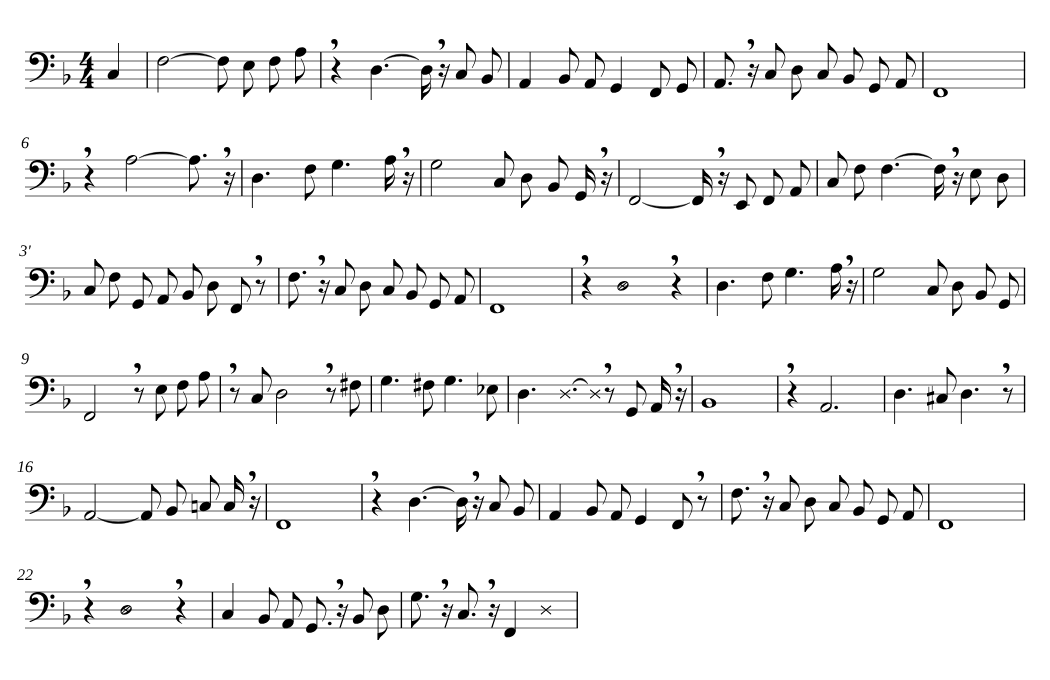
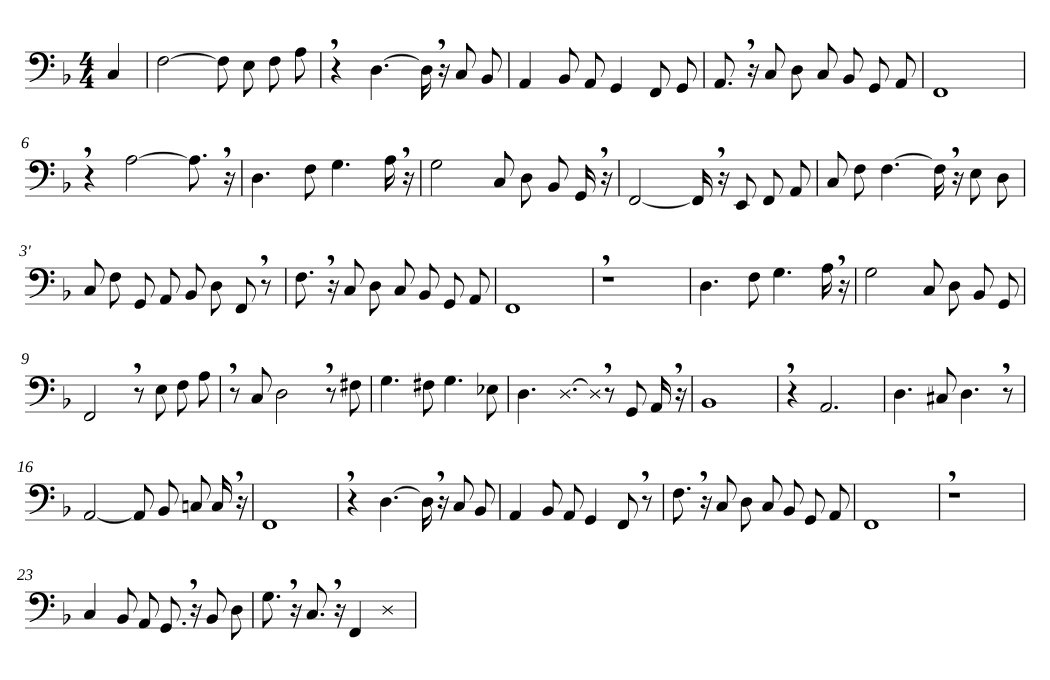
Take out the long air passages; let the short ones fade like a breath
The steady 3-4 s hiss through the teeth (bar 6' and the fermata in 22)
sounded comical: the voice now rests there. The two short passages (the
quiet turn in 12, and the close through the lips) are a breath out
instead of a held hiss: in over 120 ms, starting about 20 dB under the
hum (10 dB quieter than before), fading by a further 12 dB.

Claude-Session: https://claude.ai/code/session_01XdJ38LqZWspRhC4Uc3ZUqR

diff --git a/traeumerei-humming/live/hummer.js b/traeumerei-humming/live/hummer.js
@@ -8,7 +8,7 @@
   const PAD = 600, TRANSPOSE = -12, LAT = 15;                     // ms, semitones, ms
   const LEGATO_WITHIN = 15, STOP_FROM = 110, SLUR_FROM = 30;       // articulation thresholds, ms
   const OPEN_MAX = 0.3;
-  const AIR = { teeth: 8000, lips: 12000 };                       // dPa at depth 1 for the voiceless air: ~10 dB under the hum
+  const AIR = { teeth: 4000, lips: 8000, fade: 0.25 };            // dPa at depth 1 for the voiceless air (~20 dB under the hum), and where it fades to
   const TC = { posture: 30, glottis: 30, pitch: 30, pressure: 12 };
   const EFFORT = { vRef: 45, pRef: 7000, expo: 1.5, breathyAt: 33, modalAt: 48, stepMs: 30 };
   const HUMS = ['hum1', 'hum2', 'hum3'], ORDER = ['open2', 'open4', 'open1'];
@@ -277,7 +277,14 @@
       const s = T(d), e = T(d + a.durationTicks), W = tiers.weight;
       tiers.glottal = splice(tiers.glottal, s, e, 'voiceless-fricative');
       tiers.velic = splice(tiers.velic, s - 30, e, 0.0);
-      tiers.pressure = splice(tiers.pressure, s + 30, e - 40, Math.round(AIR[a.through] * Number(a.depth)));
+      // a breath out, not a held hiss: in over 120 ms, then fading to AIR.fade of it by the end
+      const p0 = AIR[a.through] * Number(a.depth), a0 = s + 30, a1 = Math.min(a0 + 120, e - 40), STEPS = 10;
+      tiers.pressure = splice(tiers.pressure, a0, a0 + (a1 - a0) / 2, Math.round(0.5 * p0));
+      tiers.pressure = splice(tiers.pressure, a0 + (a1 - a0) / 2, a1, Math.round(p0));
+      for (let k = 0; k < STEPS; k++) {
+        const x0 = a1 + (e - 40 - a1) * k / STEPS, x1 = a1 + (e - 40 - a1) * (k + 1) / STEPS;
+        if (x1 > x0) tiers.pressure = splice(tiers.pressure, x0, x1, Math.round(p0 * Math.pow(AIR.fade, (k + 1) / STEPS)));
+      }
       if (a.through === 'lips') tiers.lip.push([s, e, 'll-dental-fricative', 0]);
       else tiers.tt.push([s, e, 'tt-alveolar-fricative', 0]);
       for (let i = Math.max(0, Math.floor(s - 80)); i < Math.min(W.length, Math.ceil(e + 80)); i++)

diff --git a/traeumerei-humming/reduction/build_reduction.py b/traeumerei-humming/reduction/build_reduction.py
@@ -43,9 +43,7 @@ DRAFT = [
     ("3'", 4.5, 'rest'),
     ("4'", 1, 'take', '2.2', 0),                # F3 C3 D3 C3 Bb2 G2 A2
     ("5'", 1, 'pedal', '2.2', 0),               # F2
-    ("6'", 1, 'rest'),
-    ("6'", 2, 'air', 'teeth'),                  # under the climb to A5: only air through the teeth
-    ("6'", 4, 'rest'),
+    ("6'", 1, 'rest'),                          # silent under the climb to A5: the voice listens
     ("7'", 1, 'take', '2.1', 0, 'bottom'),      # D3 F3 G3 A3
     ("8'", 1, 'take', '2.2', 0, 'bottom'),      # G3 C3 D3 Bb2 G2
     # B: the left hand, which Grünfeld plays loudest here
@@ -54,7 +52,7 @@ DRAFT = [
     ('9', 3.5, 'take', '1.1', -12),             # the melody, mf: E3 F3 A3
     ('10', 1, 'rest'),
     ('10', 1.5, 'take', '2.1', 0),              # C3 D3 . F#3 | G3 F#3 G3 Eb3 | D3 D3 G3
-    ('12', 2.5, 'air', 'teeth'),                # the quiet turn: air through the teeth
+    ('12', 2.5, 'air', 'teeth'),                # the quiet turn: a short breath out through the teeth
     ('12', 3.5, 'rest'),
     ('12', 4, 'take', '2.2', 0),                # G2 A2
     ('13', 1, 'pedal', '2.1', 12),              # Bb2, over Grünfeld's low Bb1
@@ -70,9 +68,7 @@ DRAFT = [
     ('19', 4.5, 'rest'),
     ('20', 1, 'take', '2.2', 0),                # F3 C3 D3 C3 Bb2 G2 A2
     ('21', 1, 'pedal', '2.2', 0),               # F2
-    ('22', 1, 'rest'),
-    ('22', 2, 'air', 'teeth'),                  # the fermata: held breath through the teeth
-    ('22', 4, 'rest'),
+    ('22', 1, 'rest'),                          # silent through the fermata
     ('23', 1, 'take', '2.2', -12),              # C3 Bb2 A2 G2
     ('23', 4, 'take', '2.1', 0, 'bottom'),      # Bb2 D3
     ('24', 1, 'take', '2.1', 0, 'bottom'),      # G3 C3

diff --git a/traeumerei-humming/README.md b/traeumerei-humming/README.md
@@ -132,15 +132,15 @@ sung pedal notes where the harmony holds still, rests to breathe, and air in a f
   leans on (4); F2 held under the restarting melody (5); A3 (6); the tenor's rise D3 F3 G3 A3 (7);
   the bass (8).
 - **A repeated (1′–8′):** the melody itself, two octaves down (1′–3′); the bass; F2; in 6′, under the
-  climb to A5, only air through the teeth; then as in 7–8.
-- **B (9–16):** F2, then the melody at mf; the tenor C3 D3 F♯3 G3 … (10–12); air through the teeth
-  at the quiet turn in 12; B♭2 over Grünfeld's low B♭1 (13); A2 under the climax (14); D3 C♯3 D3
+  climb to A5, the voice is silent; then as in 7–8.
+- **B (9–16):** F2, then the melody at mf; the tenor C3 D3 F♯3 G3 … (10–12); a short breath out
+  through the teeth at the quiet turn in 12; B♭2 over Grünfeld's low B♭1 (13); A2 under the climax (14); D3 C♯3 D3
   (15); the ritardando A2 B♭2 C3 (16).
-- **A and the close (17–24):** as before, with F2 pedals; air through the teeth over the fermata
-  (22); the last F2, then a stream of air through lips and teeth as the chord fades.
+- **A and the close (17–24):** as before, with F2 pedals; silent through the fermata (22); the last
+  F2, then a breath out through lips and teeth as the chord fades.
 
 How the voice does it:
-- **Breaths:** 31 rests are breaths (`<rest type="breath">`, with a `<breath>`). Where the voice
+- **Breaths:** 29 rests are breaths (`<rest type="breath">`, with a `<breath>`). Where the voice
   changes without a written rest, the end of the note before is cut by about 0.45 s at Grünfeld's
   tempo there (a sixteenth at least). No stretch runs over 8 s without a breath; the longest is
   7.9 s. Because the rest is a score position, the tempo times it: a breath in a slower passage
@@ -148,8 +148,10 @@ How the voice does it:
   (0.5 to 1.3 of the default, from the dynamics smoothed over ±1.5 s).
 - **Pedal notes** (`@type="pedal"`) are held to their written end, not to the piano key's release.
 - **Air** is written as x noteheads, `@type` `air-teeth` or `air-lips`. The glottis is open, the
-  velum closed, and the tongue tip (an s) or the lower lip (an f) is at the teeth. The pressure
-  follows the dynamics there, so the air sits about 10 dB under the hum around it.
+  velum closed, and the tongue tip (an s) or the lower lip (an f) is at the teeth. It is a breath
+  out, not a held hiss: it comes in over 120 ms, starts about 20 dB under the hum around it (with
+  the dynamics there), and fades by a further 12 dB over its length (`AIR` in `hummer.js`). Long
+  passages of it (3–4 s, in 6′ and over the fermata in 22) sounded comical and were taken out.
 
 To change what is hummed, edit `reduction.mei` (or the list in `build_reduction.py`, then run it
 with the transcription and the performed notes), then:
